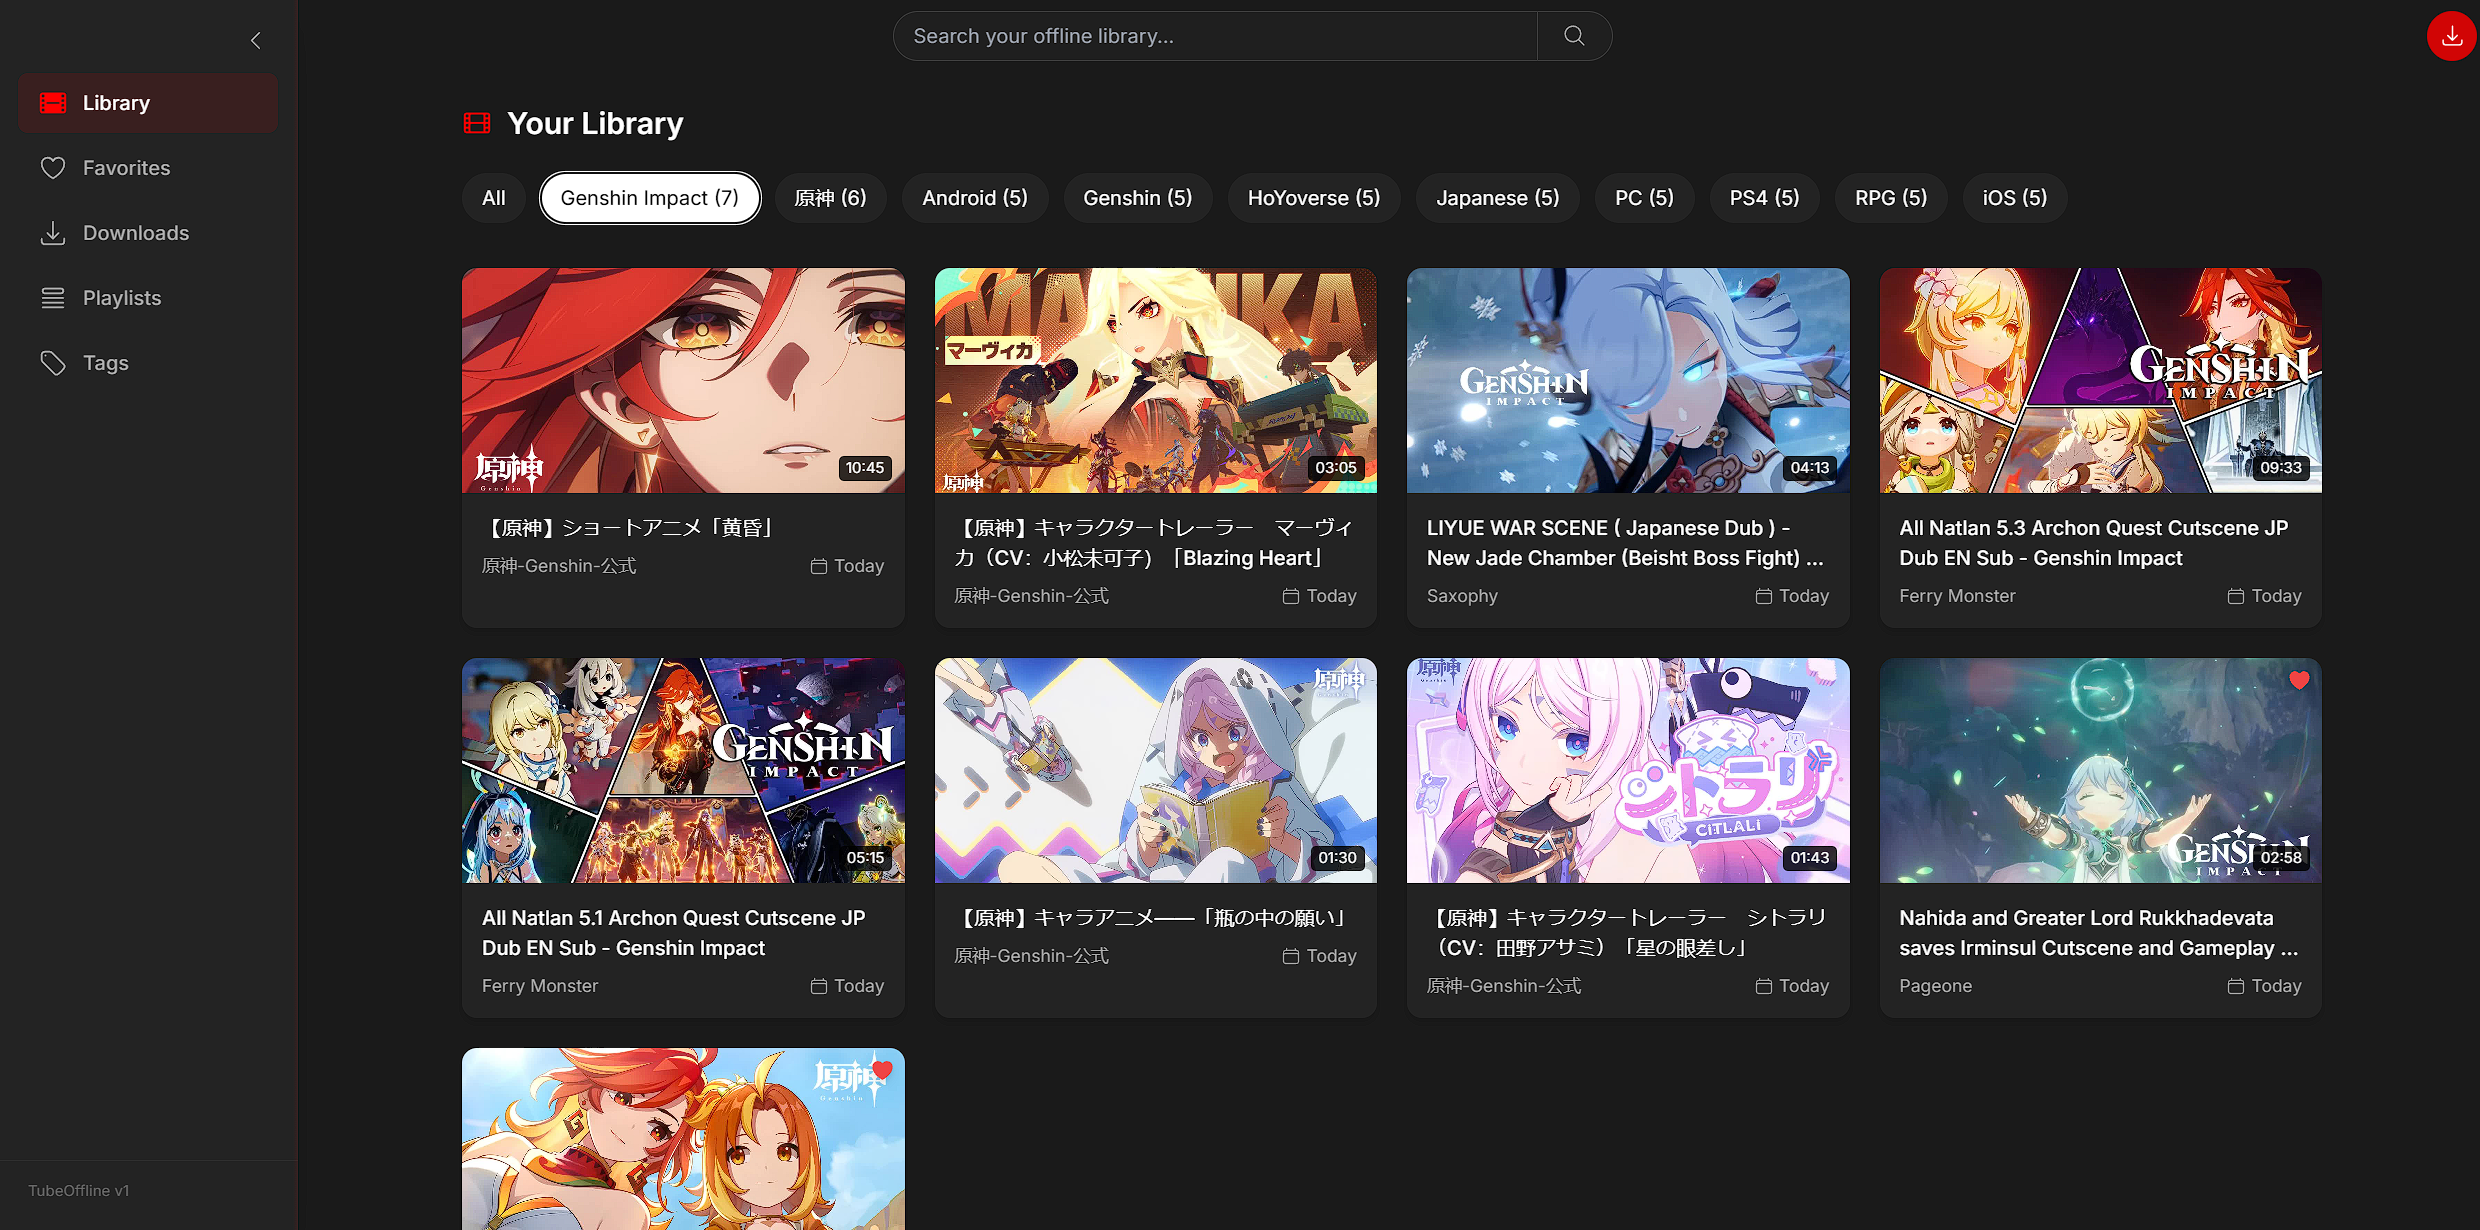
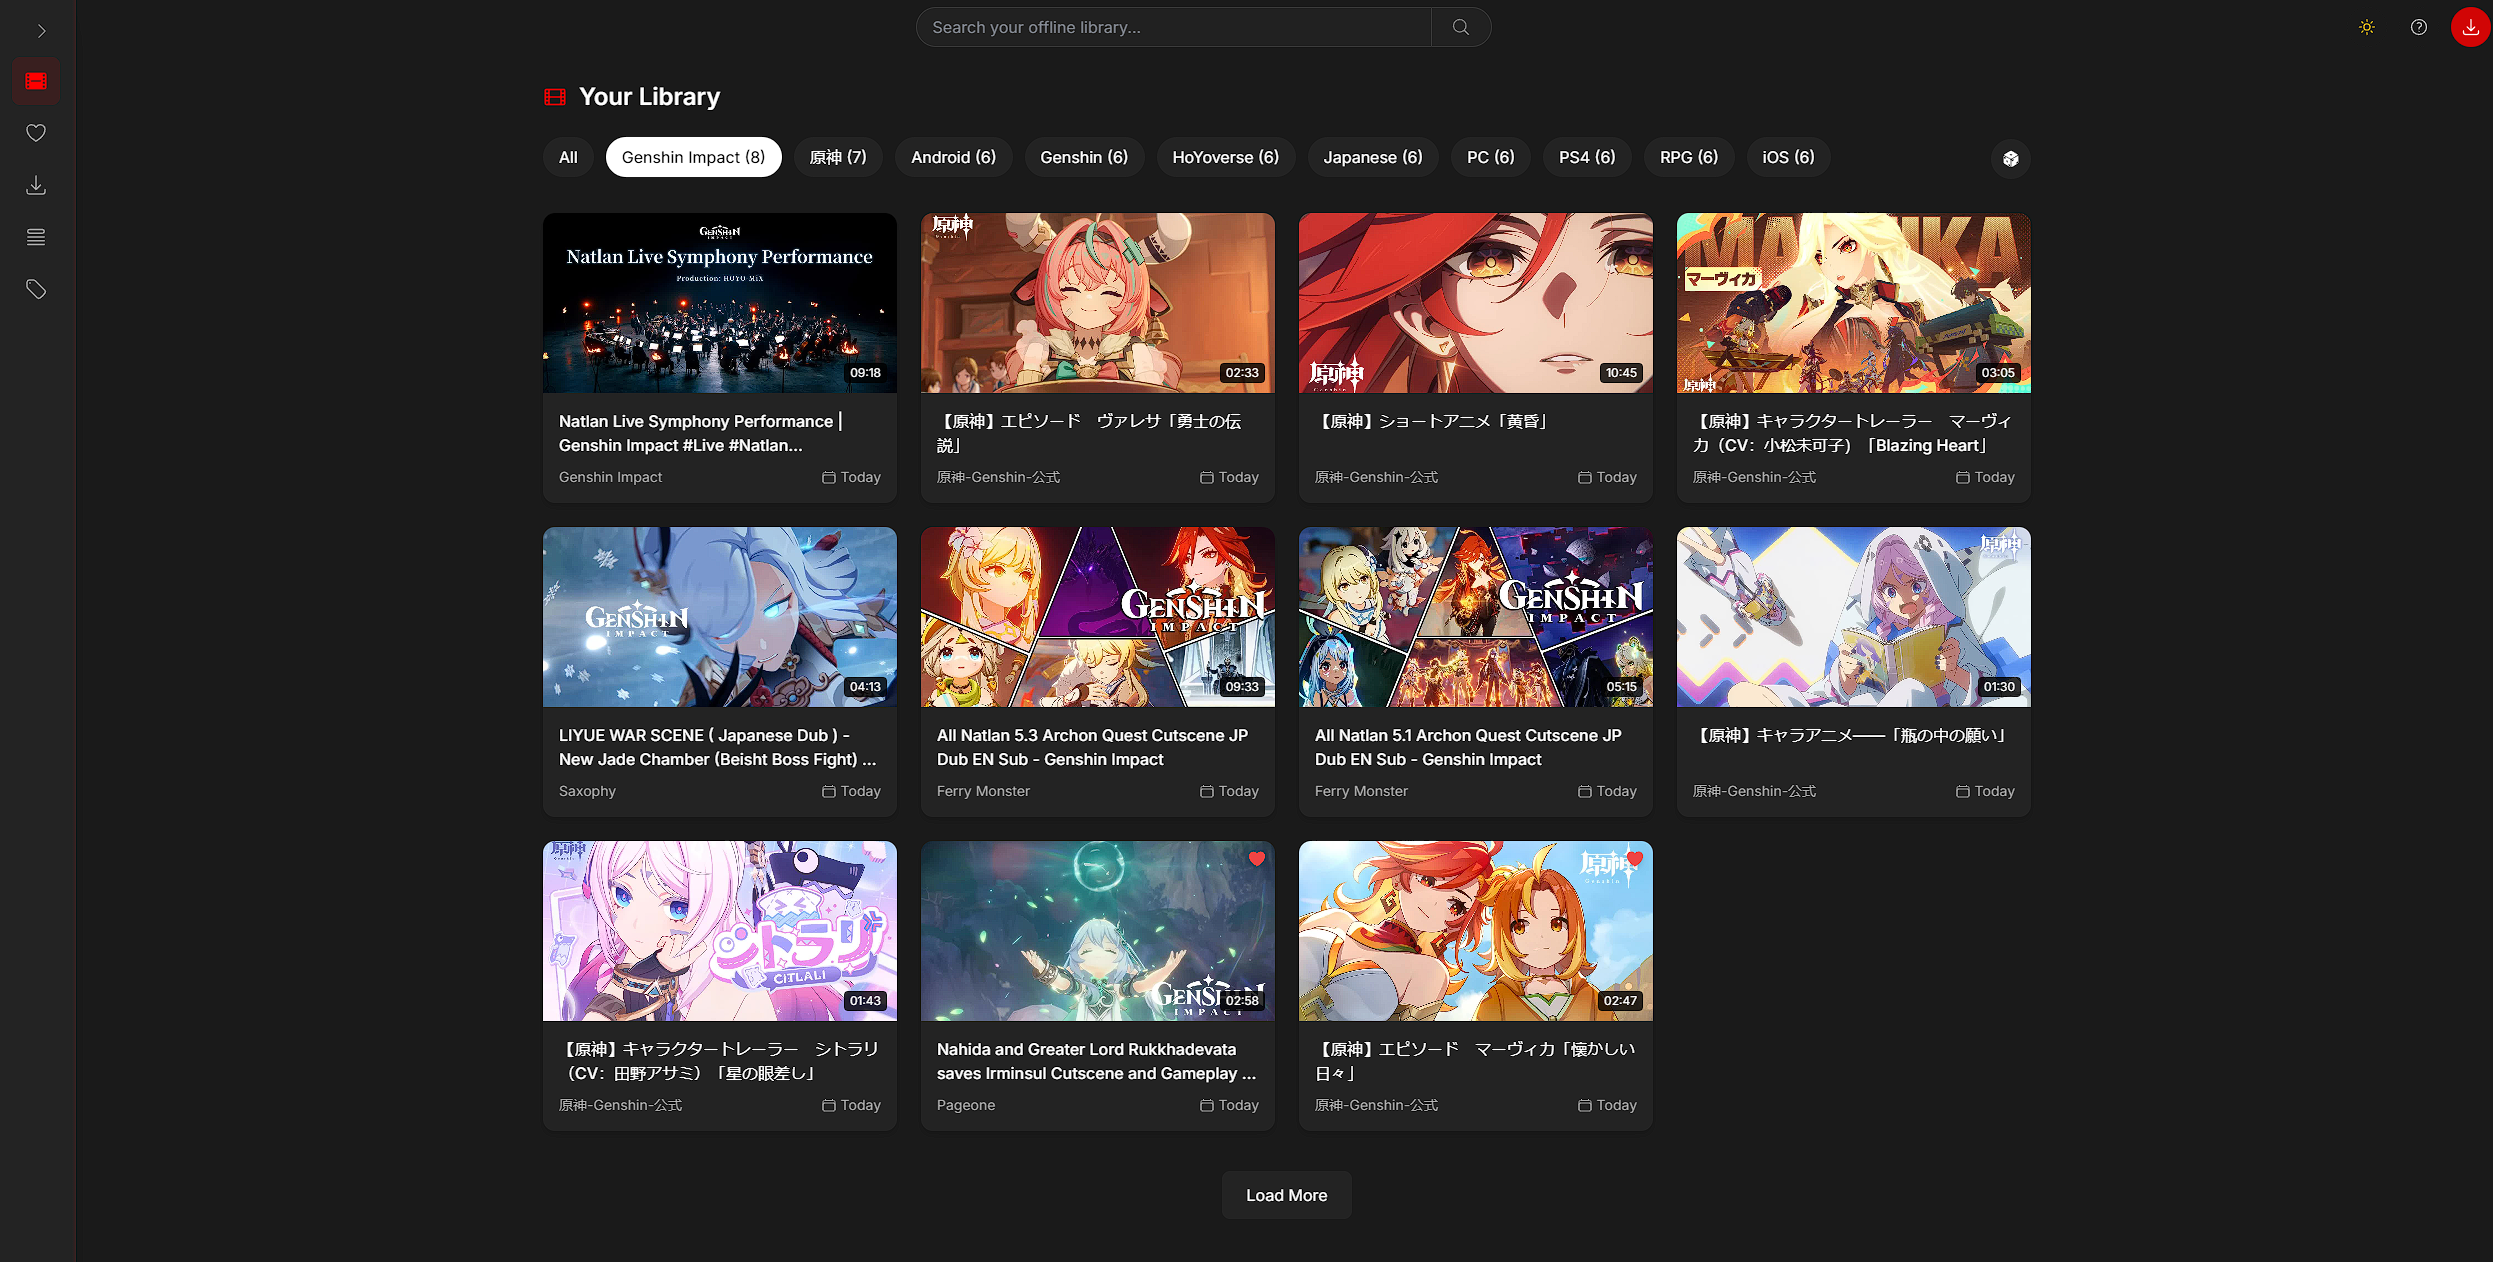
feat: update readme screenshots

diff --git a/README.md b/README.md
@@ -2,9 +2,9 @@
 
 An elegant offline YouTube video library using YT-DLP with a React frontend and Express backend.
 
-![TubeOffline Screenshot](screenshot.png)
+![TubeOffline Home Page](screenshot.png)
 
-![image](https://github.com/user-attachments/assets/7f216eae-9eef-4d4b-9733-a538e5857710)
+![TubeOffline Video Page](screenshot2.png)
 
 ## Table of Contents
 - [Disclaimer](#-disclaimer--ai-generated-project-warning)
